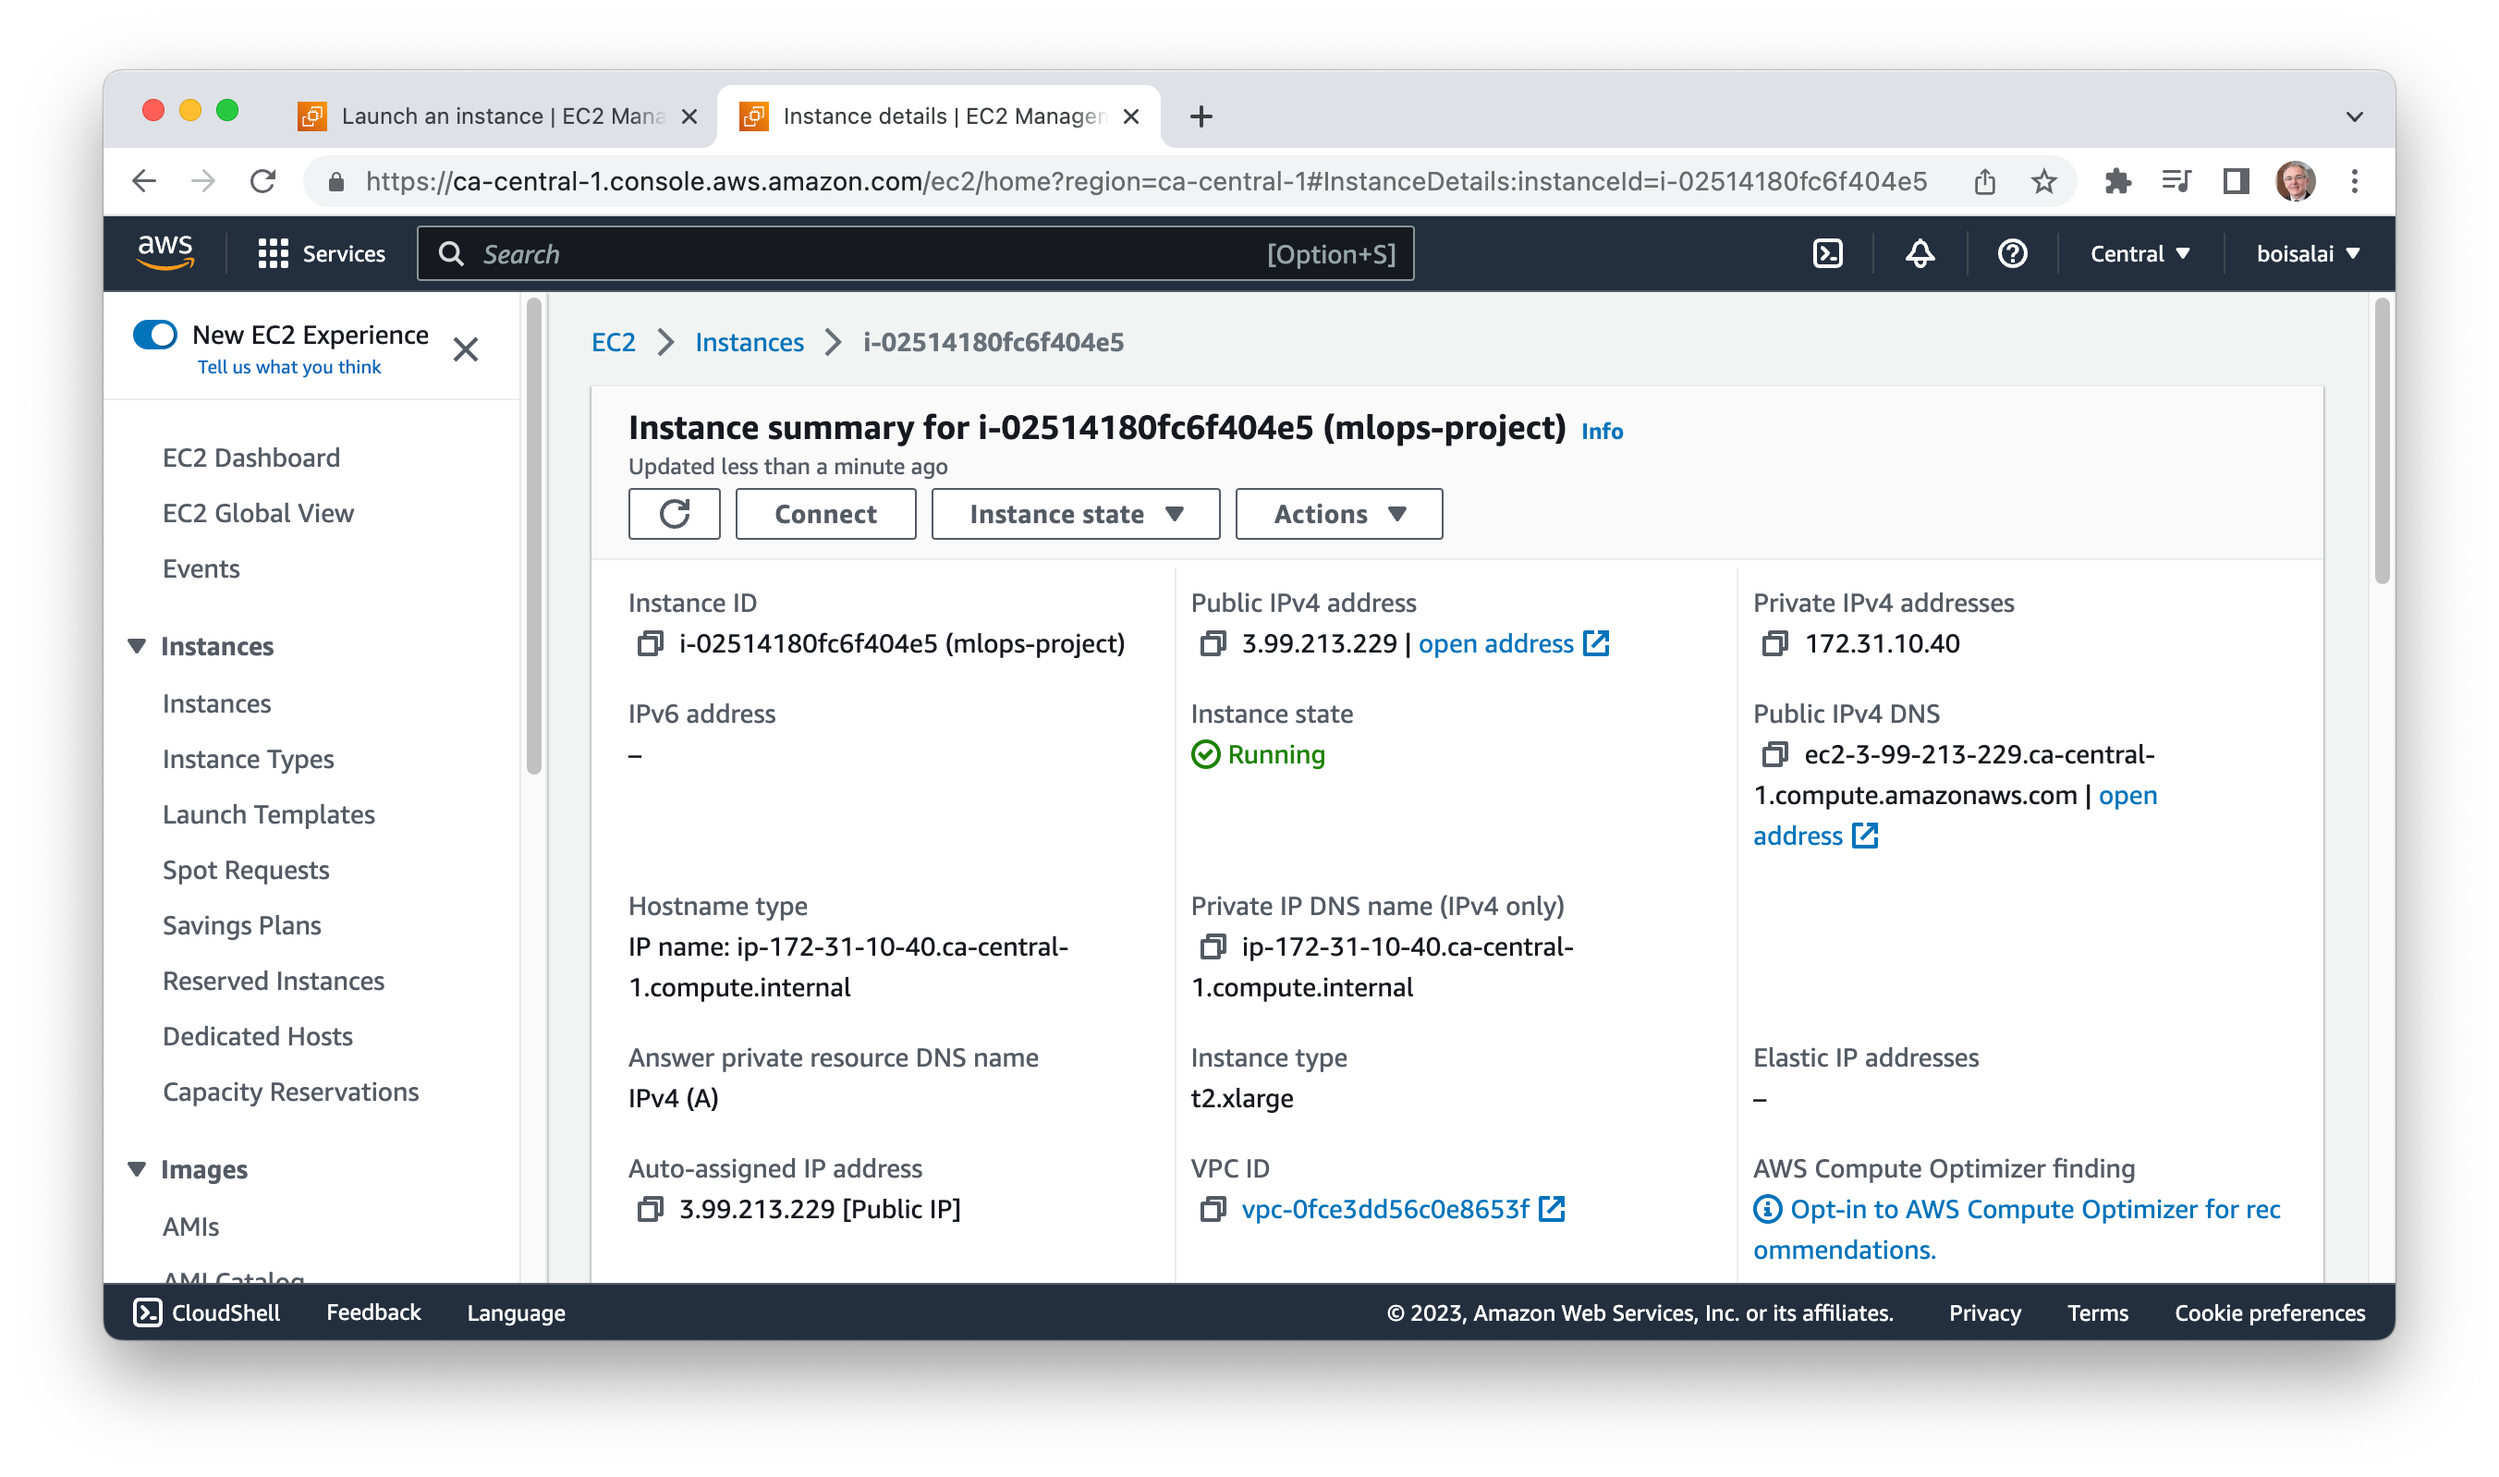
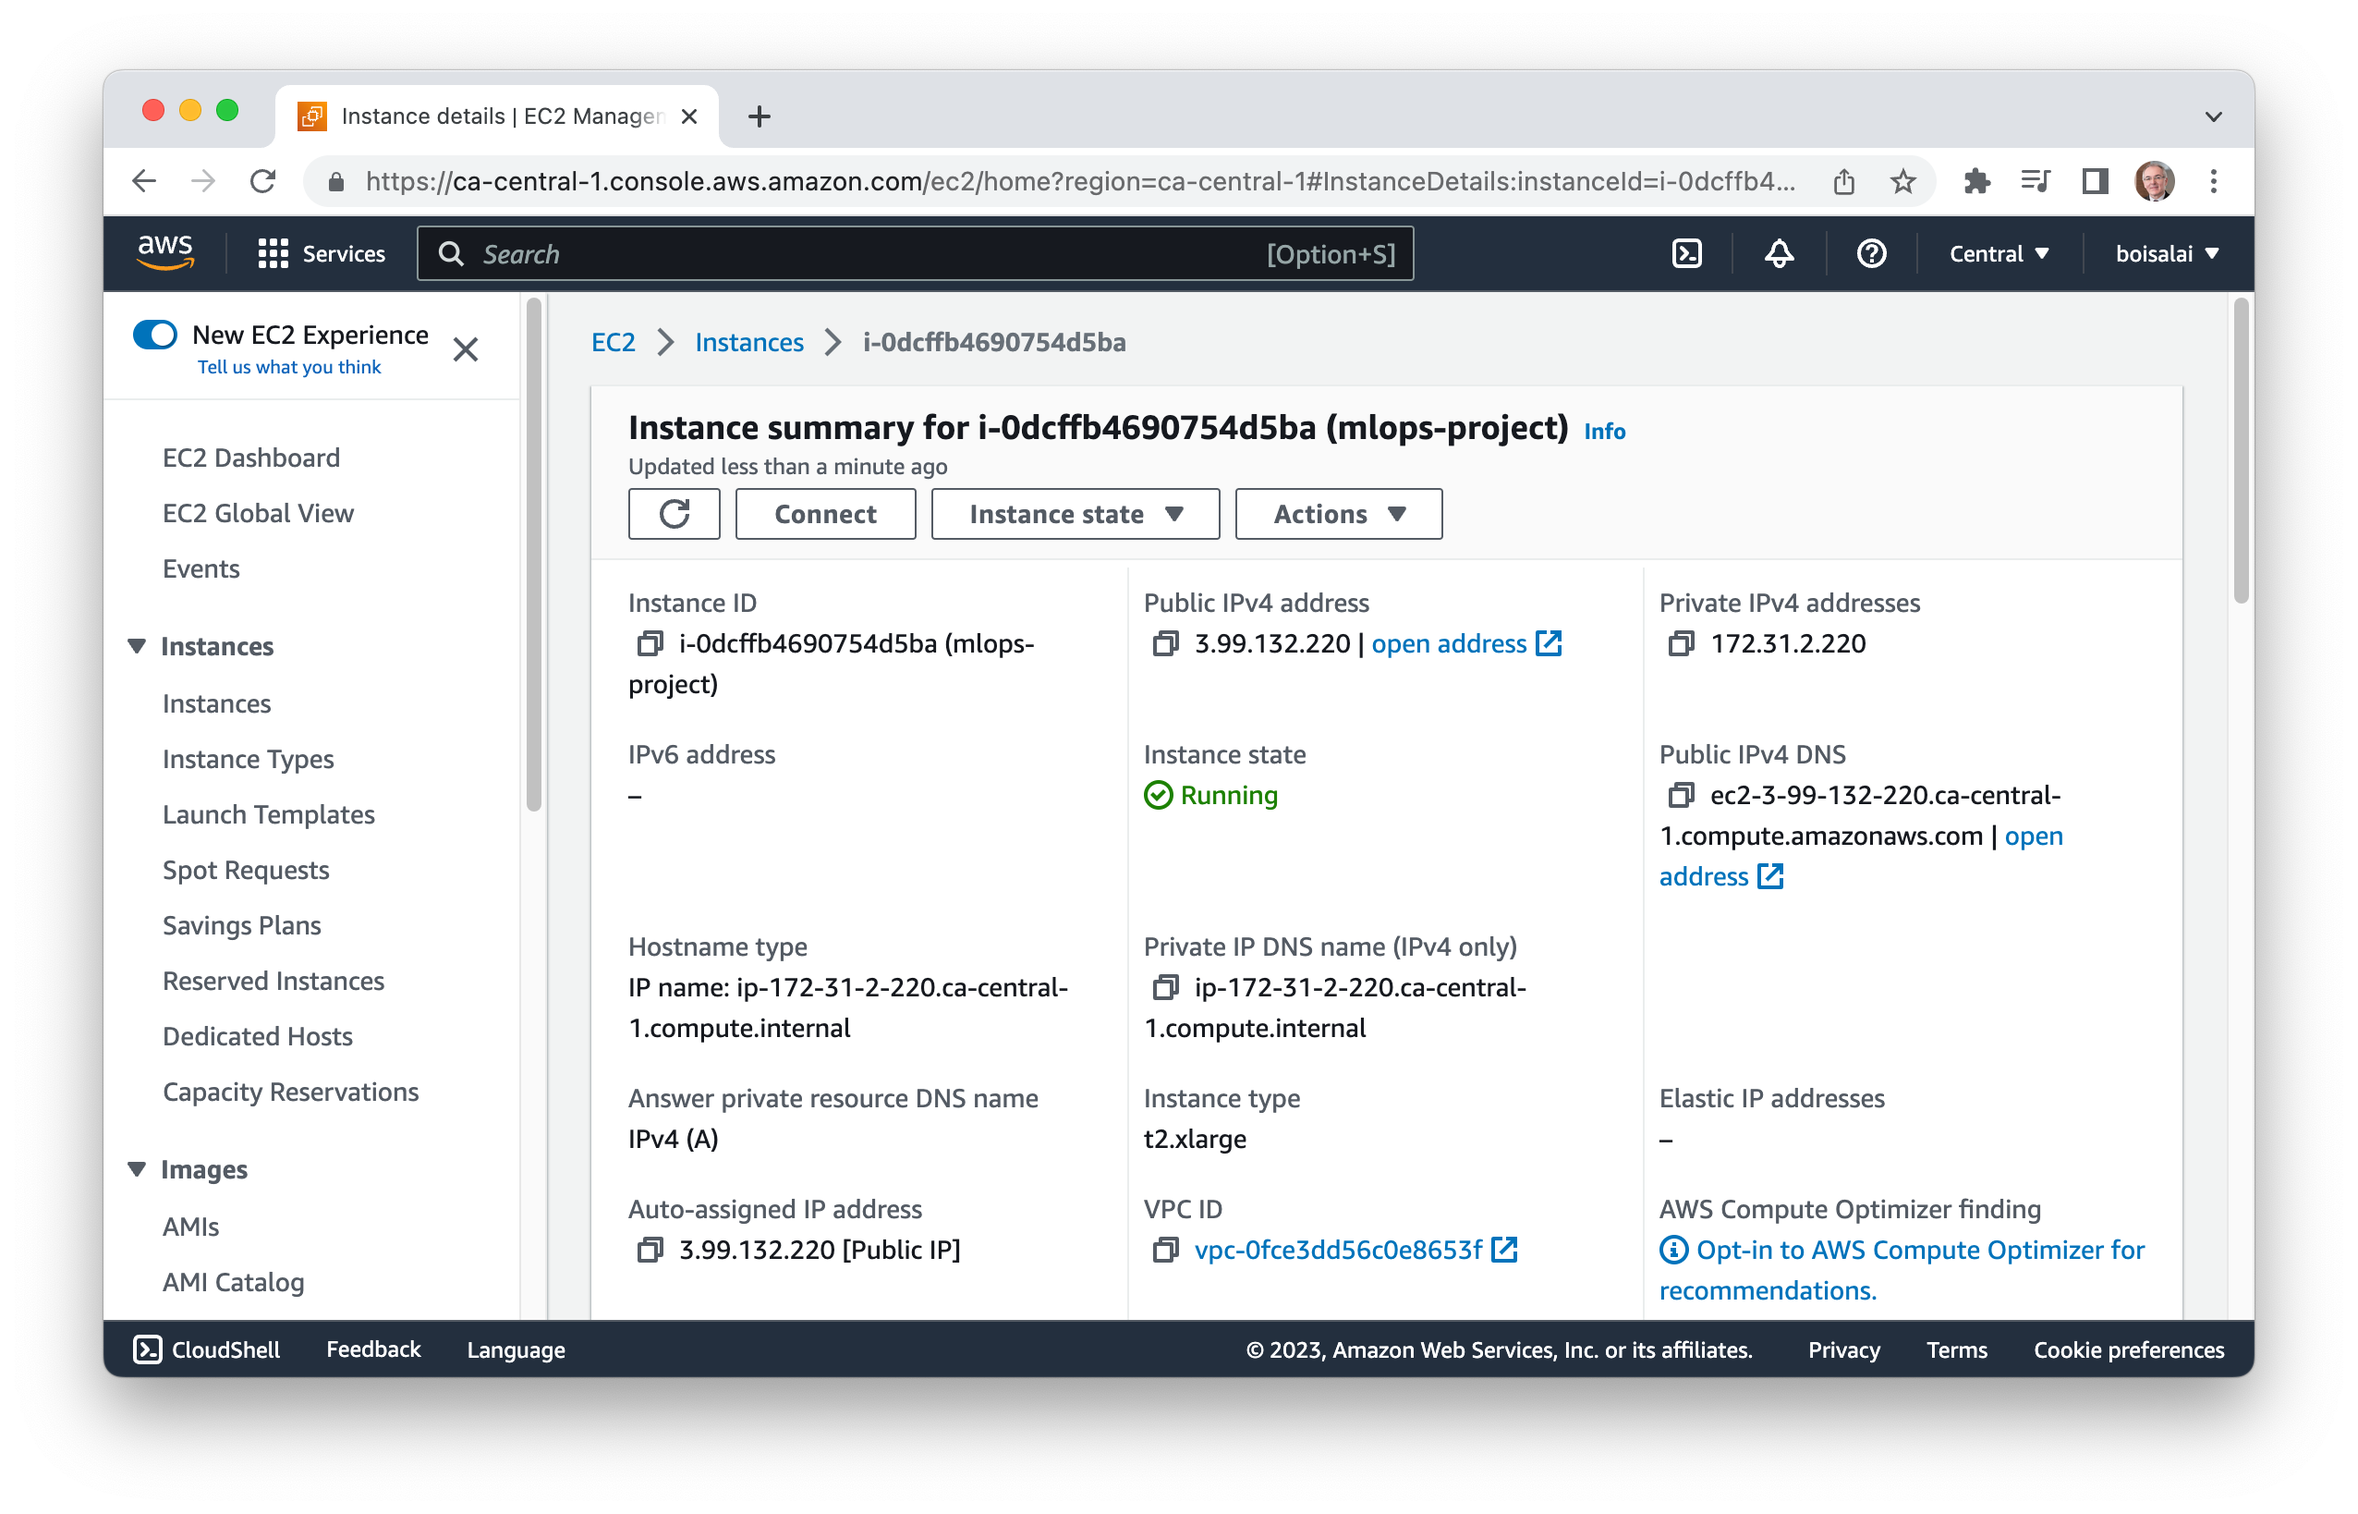
commit Thu 13 Jul 2023 19:58:08 EDT

diff --git a/README.md b/README.md
@@ -6,8 +6,7 @@
 
 ## Setup
 
-Follow the instructions in this [video](https://www.youtube.com/watch?v=IXSiYkP23zo&list=PL3MmuxUbc_hIUISrluw_A7wDSmfOhErJK)
-to prepare the environment or follow the steps 1 and 2 below.
+Follow the steps 1 to 7 below.
 
 ### Step 1: Create an AWS Account
 
@@ -43,8 +42,14 @@ Click on **Create new key pair** with:
 ![MLOps](images/s04.png)
 
 Click on **Create key pair** button, than move the downloaded `razer.pem`  file to the `~/.ssh` folder on your local machine.
+Than change the permissions to protect the file against the accidental overwriting, removing, renaming or moving files.
 
-Increase **Configure storage** to 30 Gb.
+```bash
+$ mv ~/downloads/razer.pem ~/.ssh
+$ chmod 400 ~/.ssh/razer.pem 
+```
+
+Increase **Configure storage** to 30 GiB.
 
 ![MLOps](images/s05.png)
 
@@ -54,16 +59,15 @@ You should see something like this.
 
 ![MLOps](images/s06.png)
 
-Take note of the **Public IPv4 address** (mine is `3.99.213.229`).
+Take note of the **Public IPv4 address** (mine is `3.99.132.220`).
 
 ### Step 3: Connect local machine to the EC2 instance
 
 Connect to this instance with the following commands.
-Don't forget to replace the public IP with your own (mine is `3.99.213.229`).
+Don't forget to replace the public IP with your own (mine is `3.99.132.220`).
 
 ```bash
-$ chmod 400 ~/.ssh/razer.pem 
-$ ssh -i ~/.ssh/razer.pem ubuntu@99.79.47.77
+$ ssh -i ~/.ssh/razer.pem ubuntu@3.99.132.220
 ```
 
 You should see this.
@@ -82,7 +86,7 @@ You don't need to run the previous command every time. Just create a config file
 
 ```bash
 Host mlops-project
-    HostName 3.99.213.229
+    HostName 3.99.132.220
     User ubuntu
     IdentityFile ~/.ssh/razer.pem
     StrictHostKeyChecking no
@@ -92,9 +96,7 @@ Now, we can connect to our instance with this command.
 
 ```bash
 # To connect to our instance. 
-$ ssh mlops-zoomcamp
-# To exit SSH connection.
-$ logout
+$ ssh mlops-project
 ```
 
 Note that every time we stop and restart the instance, we will have to change the public IP address.
@@ -104,14 +106,13 @@ Note that every time we stop and restart the instance, we will have to change th
 Run the folowing commands on your instance to install MiniConda, Docker and Docker Compose.
 
 ```bash
-$ sudo apt update
-$ sudo apt install make
+$ sudo apt update && sudo apt install make
 $ git clone https://github.com/boisalai/mlops-zoomcamp-project.git
 $ cd mlops-zoomcamp-project
 $ make init
 ```
 
-Log out (with `logout` command) and log back (with `ssh mlops-zoomcamp` command) in so that your group membership is re-evaluated.
+Log out (with `logout` command) and log back (with `ssh mlops-project` command) in so that your group membership is re-evaluated.
 
 Run the following command on your instance and docker should work fine.
 
